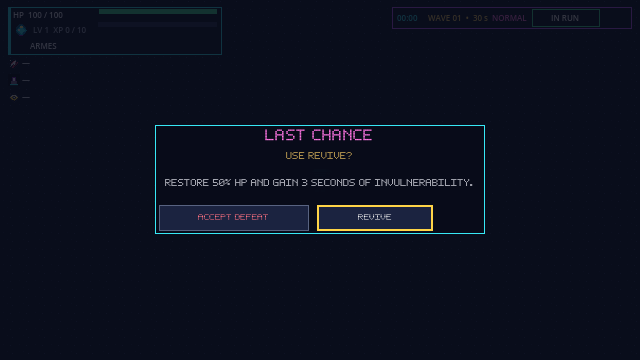
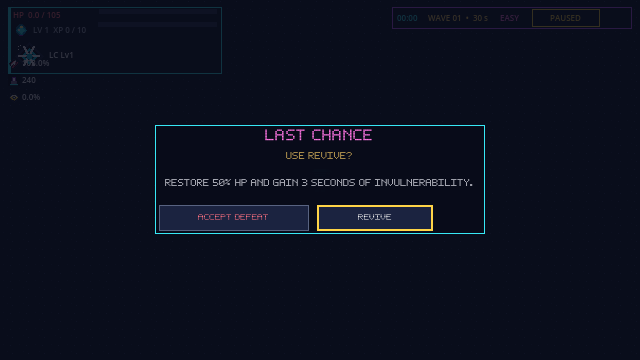
test: verify revive dialog bounds across viewports

diff --git a/docs/art/evidence/2026-10-18/README.md b/docs/art/evidence/2026-10-18/README.md
@@ -25,8 +25,8 @@ Captures 640×360 générées avec Godot 4.7.2 sous Xvfb/Mesa llvmpipe. Les smok
[10 lines of base64/hex data omitted]

diff --git a/docs/qa/TESTS.md b/docs/qa/TESTS.md
@@ -11,6 +11,12 @@
[1 lines of base64/hex data omitted]
 - [i] Le focus visible et le confinement des contrôles sont couverts par rendu logiciel; cela ne valide ni matériel physique ni toutes les branches d’erreur/focus de la page.
 
+## Confirmation de revive — bounds et actions aux viewports ciblés — 2026-10-18
+
+- [x] `survival_revive_smoke.gd` vérifie que le modal, son conteneur d’actions et les deux boutons restent dans les bounds à 640×360, 1280×720 et 1920×1080; le viewport est restauré à 640×360 avant capture.
+- [x] Le smoke passe sous Xvfb/Mesa avec capture. `states/revive-confirmation.png` a été inspectée : modal centré, actions complètes et focus Neon sur `REVIVE`; le scénario de refus produit aussi son résultat et termine avec code 0.
+- [i] Le rendu logiciel ne valide pas la lisibilité ni les commandes sur écran/manette physiques; les autres états interactifs ne sont pas tous couverts.
+
 ## Migration des récompenses visuelles — 2026-10-18
 
 - [x] Le coffre 32×32 et l’orbe XP 16×16 sont redessinés par primitives originales, avec PNG indexés limités à la palette maître et sources Aseprite éditables. La capture de contrôle agrandie nearest-neighbor a été examinée; silhouette du coffre et forme facettée de l’orbe restent lisibles.
